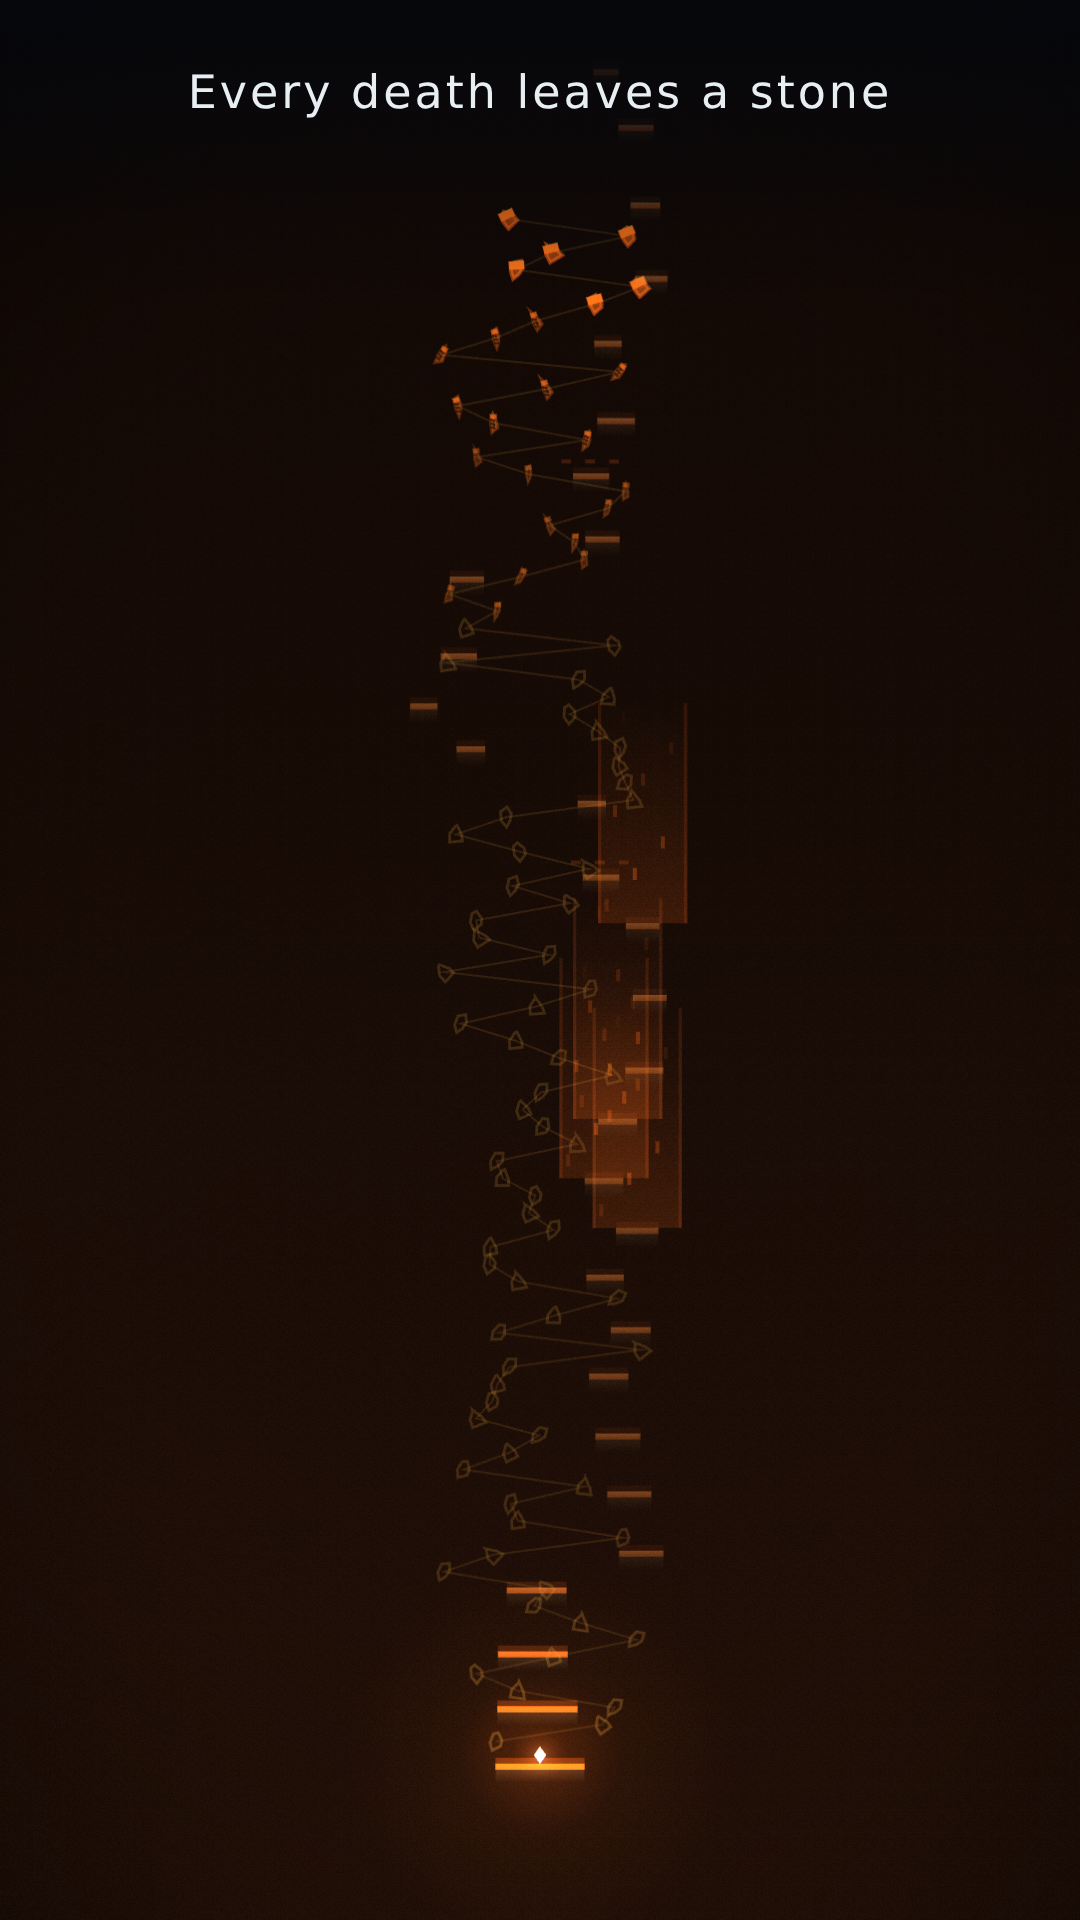
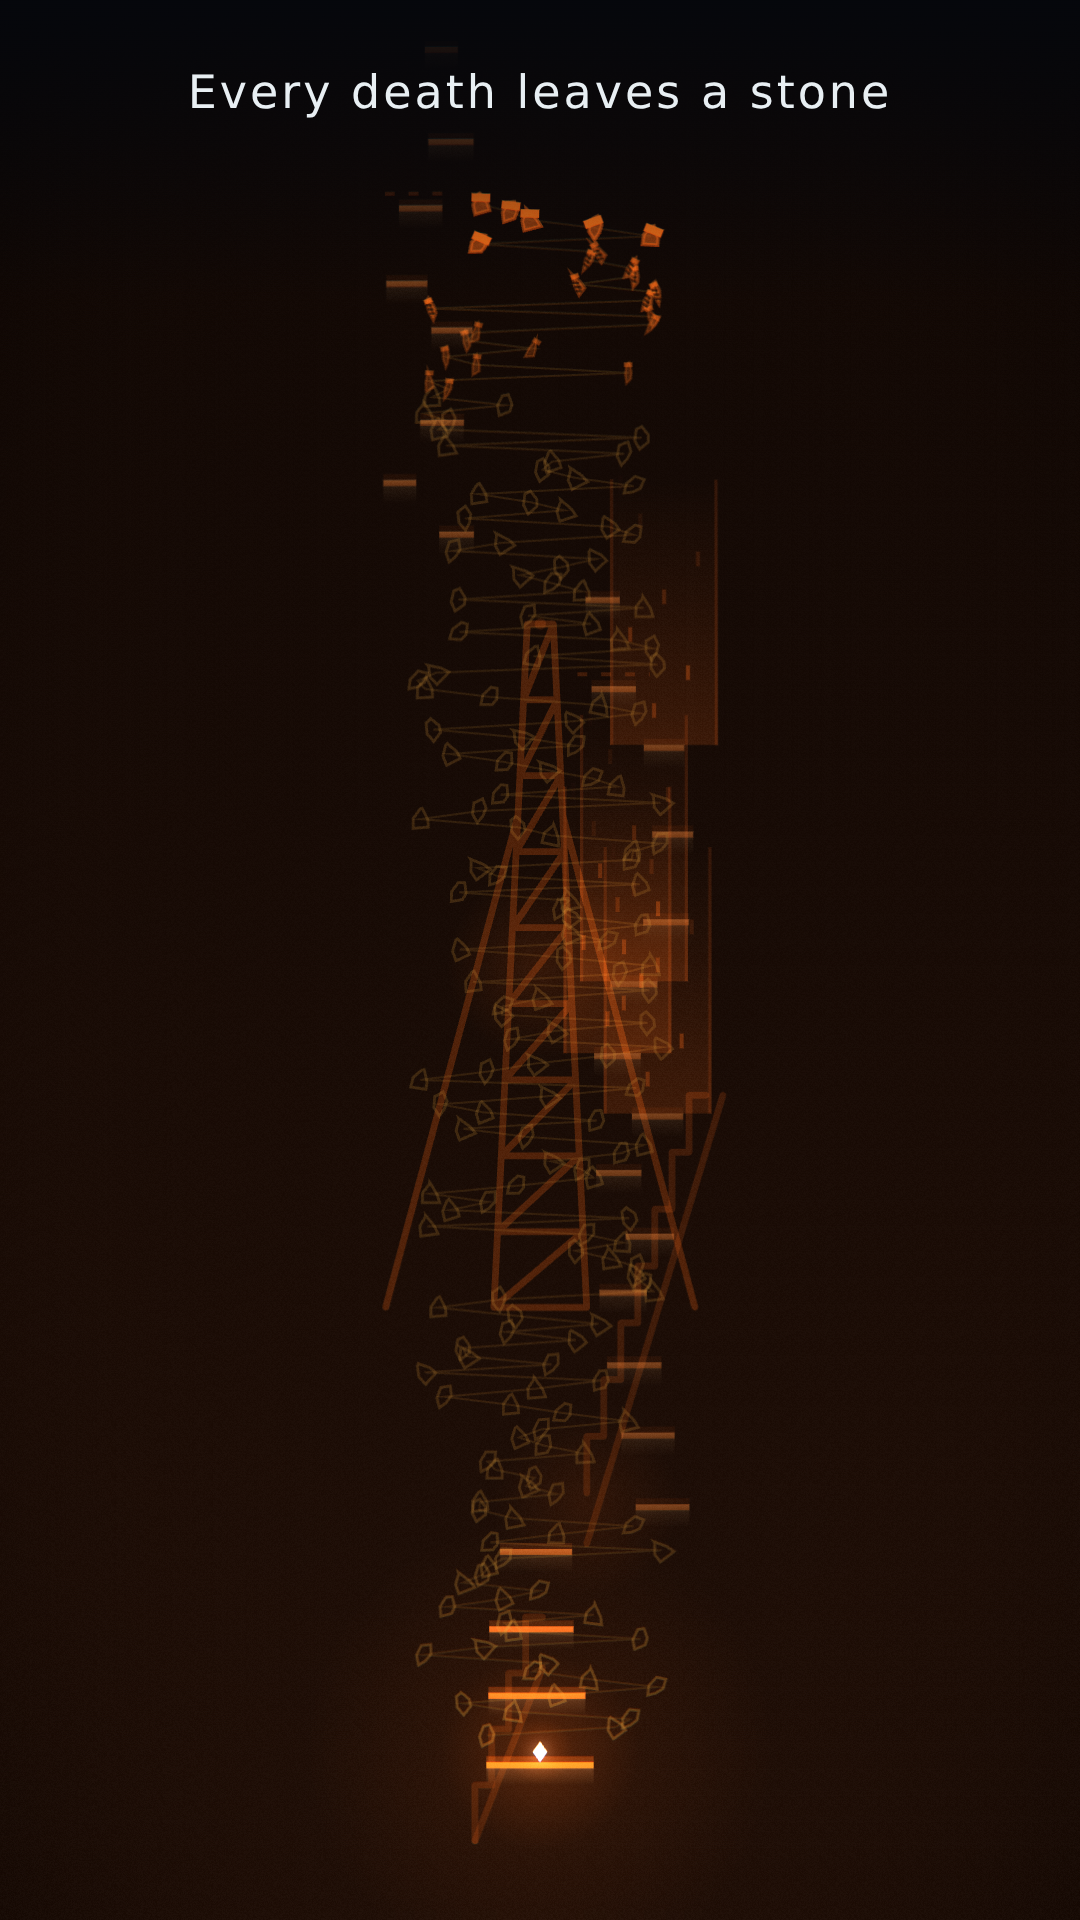
A held landmark stays in the monument. Nothing else does.
Every atmosphere layer fades out with the monument pull-back, because the
monument is a portrait of the bodies in the tower and a skyline drawn
across it is clutter. A HELD landmark is not scenery though — it is
something the player did on purpose that almost nobody knows is
possible, and the monument is the one image they share. Unheld ones
still vanish; held ones never drop below FEEL.landmark.monHeld.

The listing image is what asked the design question. I made the hero
screenshot hold three landmarks and the change did nothing, because that
shot is taken in monument view and the monument was hiding all six.

And the hero shot was selling a thinner game than exists: 90 bodies over
520 m, where everything older than 25 deaths is MEMORY and draws as a
faint outline, so the frame was mostly background — an accurate picture
of a tower nobody had really played. 190 over 430 m is the same game
photographed after somebody has played it, with three structures burning
through the spine.

Check 5 of the landmark suite rewritten to the new rule: it asserted all
landmarks vanish at full pull-back, which is no longer the claim. It now
asserts both halves separately — unheld gone (0.000 against a 0 noise
floor), held stays (2.906 brighter).

accept 14/14 · feel 11/11 · landmarks 8/8 · monument 6/6 · reach WALL
0.00% · bodies 7.79%

Changed region(s): [[0.3667, 0.0938, 0.6722, 0.9688], [0.3667, 0.0938, 0.3972, 0.1562], [0.3361, 0.6562, 0.3667, 0.6875]]

diff --git a/cairn/src/render.js b/cairn/src/render.js
@@ -506,14 +506,14 @@ export class Renderer {
       ctx.globalAlpha = 1;
     }
 
-    // Behind the ledges, in front of the parallax. It fades with the monument
-    // pull-back like the rest of the atmosphere: at full zoom the tower is a
-    // portrait of the bodies in it, and a skyline drawn across that is clutter.
-    if (depth > 0.01) {
-      ctx.globalAlpha = depth;
-      this._landmarks(ctx, B, cam, sim);
-      ctx.globalAlpha = 1;
-    }
+    // Behind the ledges, in front of the parallax. Unheld ones fade out with
+    // the monument pull-back like the rest of the atmosphere — at full zoom the
+    // tower is a portrait of the bodies in it and a skyline across that is
+    // clutter. A HELD one stays, because it is not scenery: it is something the
+    // player did that almost nobody knows is possible, and this is the image
+    // they share. `_landmarks` decides per structure; `depth` goes in as a
+    // parameter rather than as a globalAlpha wrapped round the whole pass.
+    this._landmarks(ctx, B, cam, sim, depth);
 
     this._threads(ctx, B, sim);
     this._updrafts(ctx, B, sim);
@@ -715,8 +715,9 @@ export class Renderer {
    * @param {BiomeSlot} B
    * @param {{y: number, viewH: number}} cam
    * @param {Sim} sim
+   * @param {number} depth 1 while playing, 0 at full monument pull-back
    */
-  _landmarks(ctx, B, cam, sim) {
+  _landmarks(ctx, B, cam, sim, depth = 1) {
     const L = FEEL.landmark;
     const lo = cam.y - cam.viewH, hi = cam.y + cam.viewH;
     landmarksIn(lo, hi, sim.world.seed, this._marks);
@@ -743,7 +744,10 @@ export class Renderer {
       // with a light at its heart. Six of them exist and nothing anywhere says
       // so — see FEEL.landmark.heartU.
       const held = sim.claimed.has(Math.floor(m.y / BIOME_SPAN));
-      ctx.globalAlpha = (held ? L.claimAlpha : L.alpha) * near;
+      // Unheld: gone by full pull-back. Held: never below `monHeld`.
+      const mon = held ? Math.max(depth, L.monHeld) : depth;
+      if (mon <= 0.01) continue;
+      ctx.globalAlpha = (held ? L.claimAlpha : L.alpha) * near * mon;
       ctx.strokeStyle = rgb(held ? B.accent : B.rock, 1);
       ctx.lineWidth = Math.max(1, L.lineU * sc * (held ? 1.25 : 1));
       ctx.save();
@@ -751,7 +755,7 @@ export class Renderer {
       if (held) {
         const r = L.claimLightU * sc;
         const g = ctx.createRadialGradient(0, 0, 0, 0, 0, r);
-        g.addColorStop(0, rgb(B.accent, 0.30 * near));
+        g.addColorStop(0, rgb(B.accent, 0.30 * near * mon));
         g.addColorStop(1, rgb(B.accent, 0));
         ctx.save();
         ctx.globalCompositeOperation = 'lighter';

diff --git a/cairn/src/feel.js b/cairn/src/feel.js
@@ -563,6 +563,14 @@ export const FEEL = {
     heartU: 16,
     claimAlpha: 0.62,     // a held landmark is drawn in the living accent
     claimLightU: 26,      // and carries a light at its heart
+    // AND A HELD ONE STAYS IN THE MONUMENT.
+    //
+    // Every other atmosphere layer fades out with the pull-back because the
+    // monument is a portrait of the bodies in the tower and a skyline drawn
+    // across it is clutter. A HELD landmark is not scenery though — it is
+    // something the player did, on purpose, that almost nobody knows is
+    // possible. It belongs in the one image they share. Unheld ones still go.
+    monHeld: 0.34,
     claimPullMs: 1400,    // the camera steps back for a beat to let you see it
     claimPull: 0.42,
   },

diff --git a/cairn/DECISIONS.md b/cairn/DECISIONS.md
@@ -1064,3 +1064,31 @@ now give up `insideFade` (0.78) of their alpha at the centre, and the separation
 is back to **36.3**. The remaining cost is real and is the price of having
 scenery at all; the ledges and the bodies stay the readable layer, which was
 always the rule.
+
+---
+
+## 32. A held landmark stays in the monument. Nothing else does.
+
+Every atmosphere layer — parallax ridges, light shafts, dust, the enormous
+background height, and as of §30 the landmarks — fades out with the monument
+pull-back, because the monument is a portrait of the bodies in the tower and a
+skyline drawn across it is clutter (§6's "done when").
+
+A HELD landmark is the exception, and the exception is the whole point. It is
+not scenery. It is something the player did on purpose that almost nobody knows
+is possible, and the monument is the one image they share. So an unheld
+structure still vanishes at full pull-back and a held one never drops below
+`FEEL.landmark.monHeld`.
+
+This was found by making the store's hero screenshot hold three landmarks and
+discovering the change did nothing, because the shot is taken in monument view.
+The listing image was the thing that asked the design question.
+
+### The hero screenshot was selling a thinner game than exists
+
+90 bodies over 520 m. Corpses older than 25 deaths are MEMORY, so all but the
+top handful drew as faint gold outline and the frame was mostly background — an
+accurate picture of a tower nobody had really played. 190 bodies over 430 m is
+the same game photographed after somebody has actually played it, and with three
+structures lit through the spine it now shows the thing that is hardest to
+explain in words.
